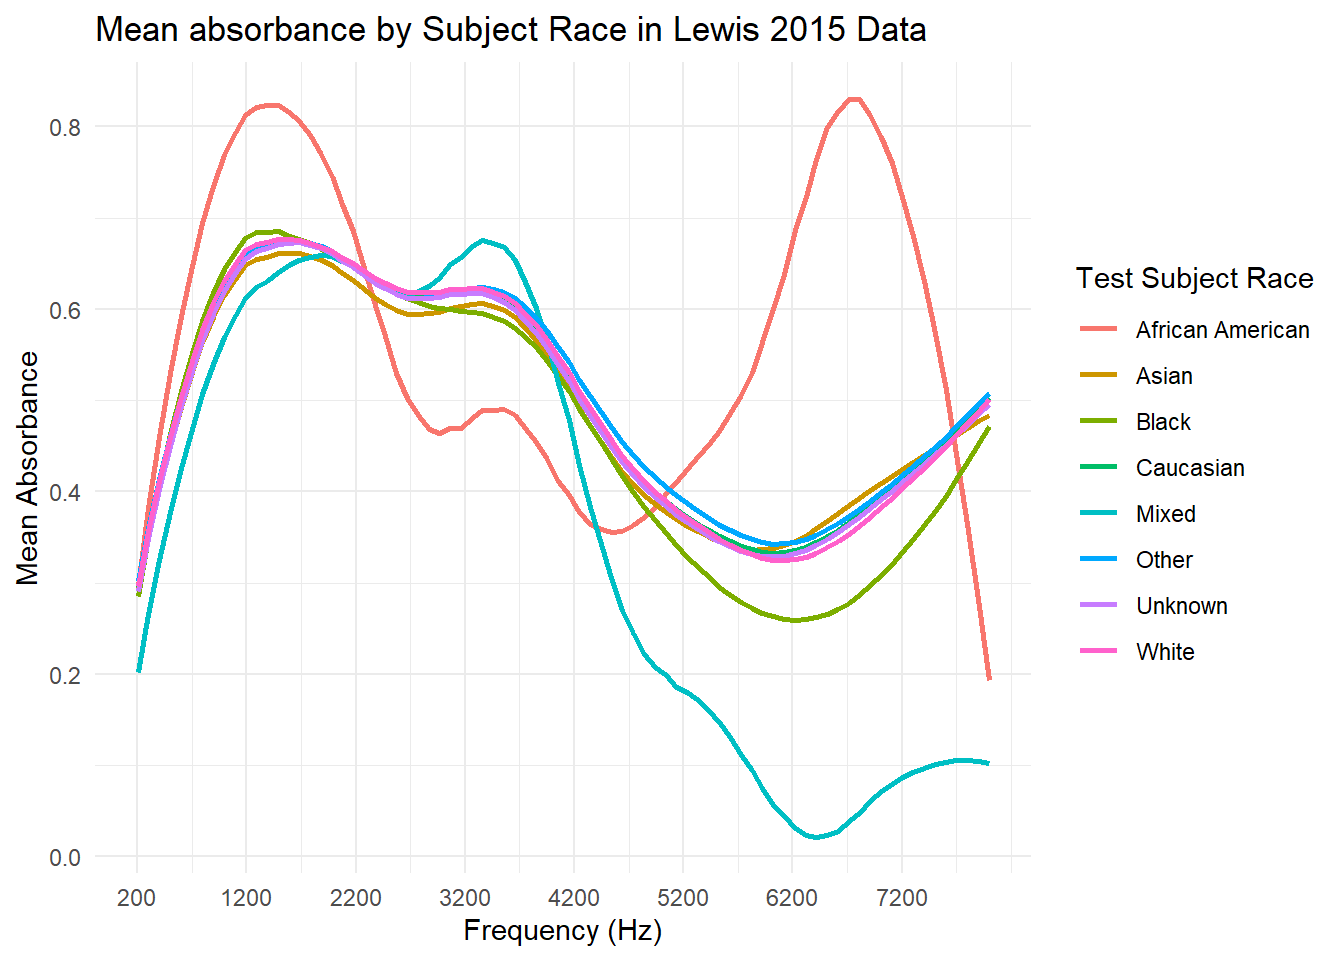
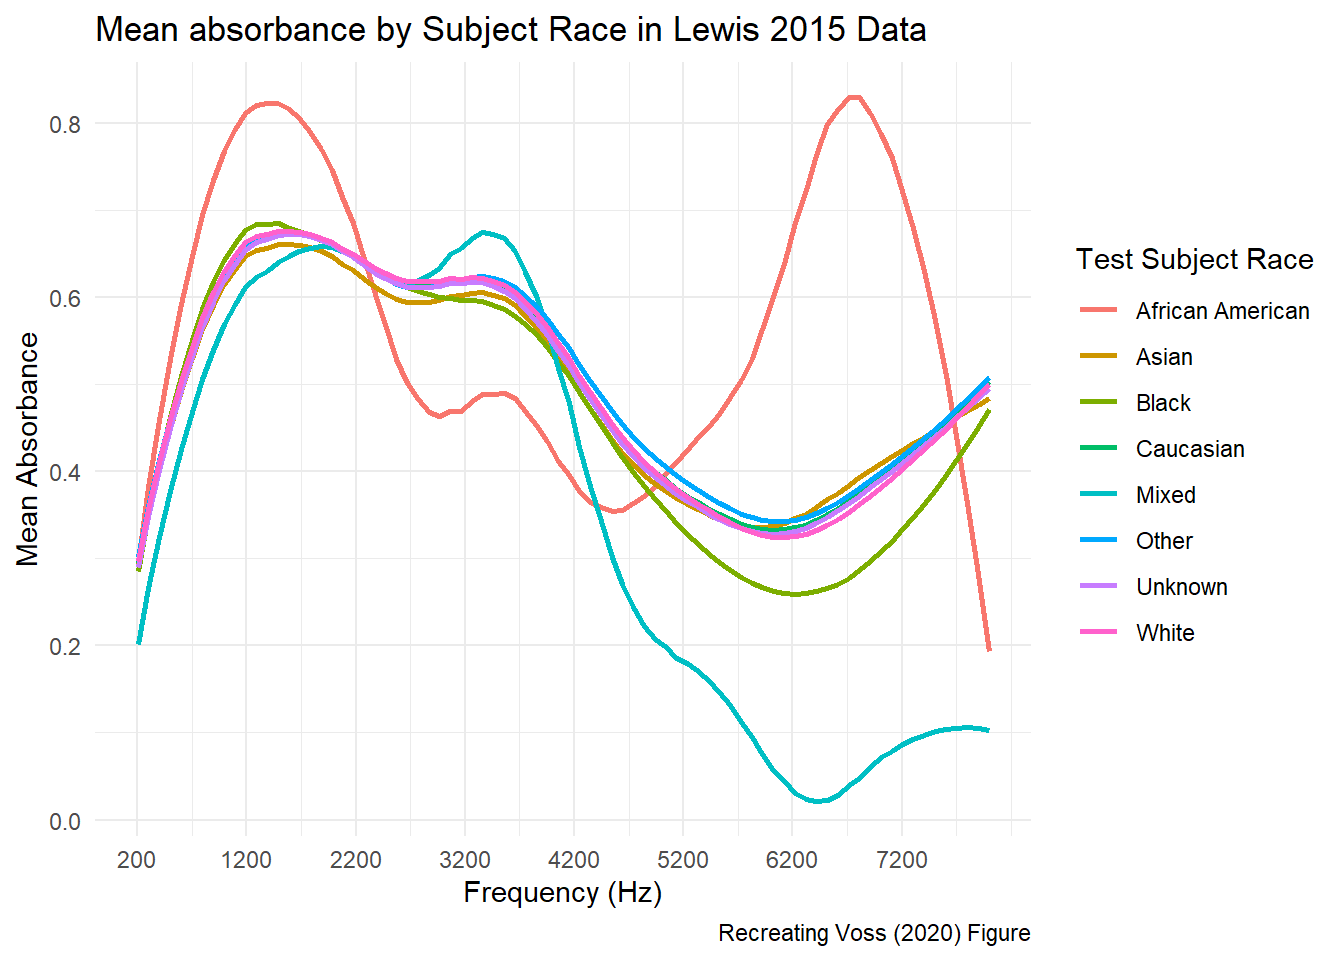
adding caption attempt

diff --git a/docs/Mini Project 4.html b/docs/Mini Project 4.html
@@ -326,9 +326,10 @@ pre > code.sourceCode > span > a:first-child::before { text-decoration: underlin
 <span id="cb5-11"><a href="#cb5-11" aria-hidden="true" tabindex="-1"></a>    <span class="at">title =</span> <span class="st">"Mean absorbance by Subject Race in Lewis 2015 Data"</span>,</span>
 <span id="cb5-12"><a href="#cb5-12" aria-hidden="true" tabindex="-1"></a>    <span class="at">x =</span> <span class="st">"Frequency (Hz)"</span>,</span>
 <span id="cb5-13"><a href="#cb5-13" aria-hidden="true" tabindex="-1"></a>    <span class="at">y =</span> <span class="st">"Mean Absorbance"</span>, </span>
-<span id="cb5-14"><a href="#cb5-14" aria-hidden="true" tabindex="-1"></a>    <span class="at">color =</span> <span class="st">"Test Subject Race"</span></span>
-<span id="cb5-15"><a href="#cb5-15" aria-hidden="true" tabindex="-1"></a>  ) <span class="sc">+</span> </span>
-<span id="cb5-16"><a href="#cb5-16" aria-hidden="true" tabindex="-1"></a>  <span class="fu">theme_minimal</span>()</span></code><button title="Copy to Clipboard" class="code-copy-button"><i class="bi"></i></button></pre></div>
+<span id="cb5-14"><a href="#cb5-14" aria-hidden="true" tabindex="-1"></a>    <span class="at">color =</span> <span class="st">"Test Subject Race"</span>,</span>
+<span id="cb5-15"><a href="#cb5-15" aria-hidden="true" tabindex="-1"></a>    <span class="at">caption =</span> <span class="st">"Recreating Voss (2020) Figure"</span></span>
+<span id="cb5-16"><a href="#cb5-16" aria-hidden="true" tabindex="-1"></a>  ) <span class="sc">+</span> </span>
+<span id="cb5-17"><a href="#cb5-17" aria-hidden="true" tabindex="-1"></a>  <span class="fu">theme_minimal</span>()</span></code><button title="Copy to Clipboard" class="code-copy-button"><i class="bi"></i></button></pre></div>
 <div class="cell-output-display">
 <div>
 <figure class="figure">
